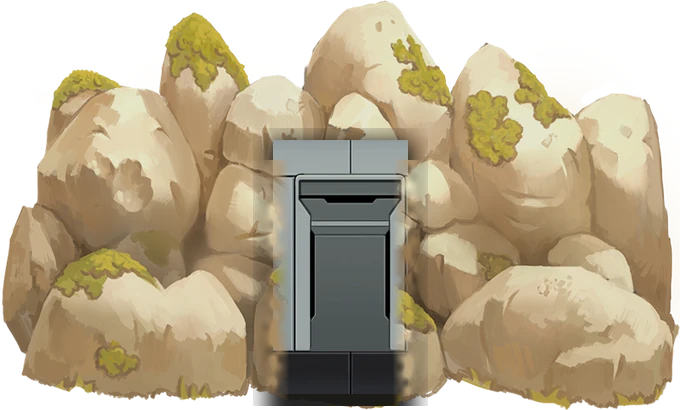
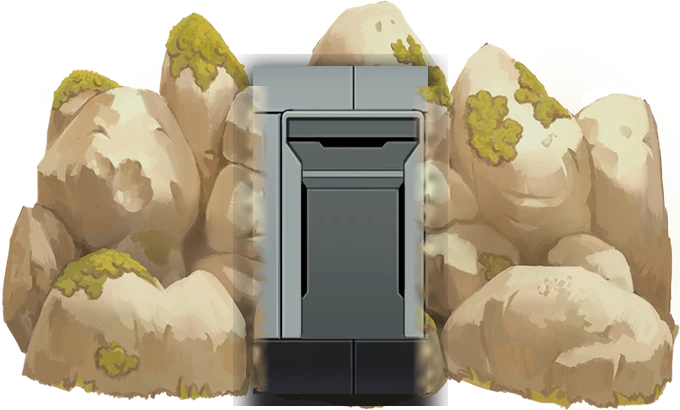
Ver 1.93: 로봇 동료의 리그 그림자가 마을 그림자와 두 겹이던 것 끄기, 1장 휴게실 그림자 작게, 1장 벼랑 강철문 크게, 1장 지휘실 큰 화면에 작전 지도, 7장 부두에 계류 말뚝, 5장 정비실 앞 겹친 상자 빼기

Changed region(s): [[0.3397, 0.1171, 0.6794, 0.9951]]

diff --git a/js/town.js b/js/town.js
@@ -87,6 +87,7 @@
   // 소품: art 그림, (x, y) 왼쪽 위 칸, w 칸 넓이, hh 그림 높이(칸). o: { h 칸 높이, block 0 이면 지나감, cells 막을 칸만 [dx,dy], lit [반지름, 색], ox 픽셀 밀기, flip }
   const D = (art, x, y, w, hh, o) => Object.assign({ t: 'deco', art, x, y, w, h: 1, hh, block: 1 }, o);
   const DEC = (art, x, y, w, a = 1) => ({ t: 'decal', art, x, y, w, a }); // 바닥에 납작하게 까는 무늬 (금·맨홀·물웅덩이)
+  const BOLLARD = (x, y) => ({ t: 'deco', kind: 'bollard', x, y, w: 1, h: 1, block: 1 }); // 부두 계류 말뚝 (직접 그림)
   const FIRE = (x, y) => ({ t: 'deco', kind: 'fire', x, y, w: 1, h: 1, block: 1, lit: [150, '255,170,90'] }); // 모닥불 (직접 그림)
   // 건물: to 들어갈 방, door 문 칸(x), label 은 방 이름으로 바뀐다
   const BLD = (to, art, x, y, w, h, door, o) => Object.assign({ t: 'building', x, y, w, h, art, label: '', door, to: [to, 6, 7] }, o);
@@ -220,7 +221,7 @@
         D('town/t5_core', 8, 12, 2, 1.6, { lit: [130, '150,220,255'] }), D('town/t5_core', 16, 12, 2, 1.6, { lit: [130, '150,220,255'] }),
         D('tiles/crate1', 1, 13, 1, 1.0), D('tiles/crate0', 24, 13, 1, 0.9), D('town/b_bench', 8, 16, 2, 0.9), D('town/b_bench', 16, 16, 2, 0.9),
         D('tiles/console', 6, 15, 2, 1.4, { lit: [90, '120,220,255'] }), D('tiles/tank0', 21, 15, 1, 1.9, { lit: [90, '90,255,170'] }), D('tiles/tank1', 3, 15, 1, 1.9, { lit: [90, '90,255,170'] }),
-        D('town/b_bench', 10, 9, 2, 0.9), D('town/b_bench', 14, 9, 2, 0.9), D('tiles/crate0', 22, 8, 1, 0.9), D('tiles/crate1', 23, 8, 1, 1.0), D('tiles/crate1', 1, 9, 1, 1.0),
+        D('town/b_bench', 10, 9, 2, 0.9), D('town/b_bench', 14, 9, 2, 0.9), D('tiles/crate1', 1, 9, 1, 1.0),
         DEC('town/d_grate', 5, 13, 1.5), DEC('town/d_grate', 18, 13, 1.5), DEC('town/d_grate', 10, 16, 1.5), DEC('town/d_crack', 19, 15, 2, 0.45),
         EXIT(12, 17), ...NPC([12, 11], [7, 10], [18, 13]), CON(14, 15),
       ],
@@ -269,6 +270,7 @@
       back: [{ art: 'town/t7_sea', by: 6.05, h: 6.4, repeat: 1, mirror: 1 }],
       objects: [
         BLD('cmd', 'town/t7_tower', 4, 7, 3, 3, 5, { plinth: 0 }), BLD('shop', 'town/t7_terminal', 14, 7, 8, 3, 18, { plinth: 0 }), BLD('cafe', 'town/t2_cafe', 19, 13, 5, 3, 21, { plinth: 0 }),
+        BOLLARD(1, 6), BOLLARD(8, 6), BOLLARD(13, 6), BOLLARD(23, 6), BOLLARD(24, 6),
         D('town/t3_radar', 23, 9, 1, 2.4), D('town/t0_mgnest', 10, 7, 3, 1.1), D('town/t3_mg', 11, 7, 1, 1.2, { block: 0 }),
         D('tiles/crate1', 3, 12, 1, 1.0), D('tiles/crate0', 4, 12, 1, 0.9), D('tiles/crate1', 3, 13, 1, 1.0), D('tiles/barrel', 15, 12, 1, 1.1), D('tiles/barrel', 16, 12, 1, 1.0),
         D('tiles/console', 8, 14, 2, 1.4, { lit: [90, '120,220,255'] }), D('tiles/gas', 1, 15, 2, 1.4), D('tiles/bags1', 15, 15, 2, 0.8), D('town/b_bench', 5, 15, 2, 0.9),
@@ -290,7 +292,7 @@
   // 그림의 뒷벽은 비율 그대로, 바닥 부분만 걸을 자리가 넉넉하도록(3칸 남짓) 세로로 늘린다.
   // fl: 그림(가로 1024 기준)에서 바닥이 시작하는 높이, blk: 바닥 위에 선 큰 기계 자리(가로 비율 구간, 지나갈 수 없음)
   const STAGE = {
-    r_train_0: { fl: 335, h: 512 }, r_dis2_0: { fl: 335, h: 512, blk: [[0.66, 1]] }, r_mm4_0: { fl: 395, h: 512, blk: [[0.06, 0.27], [0.43, 0.63], [0.88, 1]] },
+    r_train_0: { fl: 335, h: 512, screen: ['town/r_andr1_11', 0.345, 0.29, 0.695, 0.6] }, r_dis2_0: { fl: 335, h: 512, blk: [[0.66, 1]] }, r_mm4_0: { fl: 395, h: 512, blk: [[0.06, 0.27], [0.43, 0.63], [0.88, 1]] },
     r_rein1_0: { fl: 360, h: 512 }, r_dis1_0: { fl: 360, h: 512 }, r_rein2_0: { fl: 345, h: 512, blk: [[0.66, 1]] },
     r_parts_1: { fl: 370, h: 512, blk: [[0, 0.15], [0.27, 0.68]] }, r_rein3_0: { fl: 345, h: 512, blk: [[0.66, 1]] },
     r_cap: { fl: 425, h: 546, blk: [[0.56, 0.82]] }, r_mm0_0: { fl: 370, h: 512 },
@@ -315,7 +317,7 @@
     const free = (x) => { for (let d = 0; d < W; d++) for (const sg of [1, -1]) { const t = x + d * sg; if (t > 0 && t < W - 1 && !blocked(t) && Math.abs(t - mx) > 0 && used.every((u) => Math.abs(u - t) >= 2)) { used.push(t); return t; } } return free0(x); };
     const objects = [{ t: 'exit', x: mx, y: H - 1, w: 1, h: 1, to: 'back' }, ...STAGE_NPC[k].map(([id, fx, dy]) => ({ t: 'npc', id, x: free(Math.round(fx * W)), y: Math.min(H - 2, r0 + dy), dir: fx > 0.5 ? -1 : 1 }))];
     for (const [art, fx, dy, w, hh, lit] of props || []) { const x = Math.max(1, Math.round(fx * W)), y = Math.min(H - 2, r0 + dy); if (x === mx || objects.some((o) => o.t === 'npc' && o.x >= x && o.x < x + w && o.y === y)) continue; objects.push({ t: 'deco', art, x, y, w, h: 1, hh, block: 1, lit }); }
-    return { name, rows, indoor: 1, stage: { bg: bgPath, fl: st.fl, h: st.h, sc, top0, floorH, off, back: st.back }, bg: bgPath, tint, spawn: [mx, H - 2], objects };
+    return { name, rows, indoor: 1, stage: { bg: bgPath, fl: st.fl, h: st.h, sc, top0, floorH, off, back: st.back, screen: st.screen }, bg: bgPath, tint, spawn: [mx, H - 2], objects };
   }
   // 방 안 분위기 (장별): 어둠, 어둠 빛깔, 사령관 둘레 등불, 떠다니는 것
   const ROOMATMO = { works: { dark: 0.12, darkC: '30,18,8', torch: 1, fx: 'dust' }, camp: { dark: 0.14, darkC: '30,22,10', torch: 1, fx: 'dust' }, sewer: { dark: 0.5, darkC: '4,12,16', torch: 1, fx: 'drip', tint: '#b4c6cc' }, station: { dark: 0.25, darkC: '6,12,22', torch: 1, fx: 'dust' }, port: { dark: 0.1, darkC: '10,20,30', torch: 1, fx: 'dust' }, snow: { dark: 0.28, darkC: '40,22,8', torch: 1, fx: 'dust', tint: '#ffd6a8' } };
@@ -363,7 +365,7 @@
       if (e.sdAnim !== anim && c.has(anim)) { c.play(anim, null, true); e.sdAnim = anim; }
       c.update(dt);
       // 조종 손잡이(이름이 _CTRL 로 끝나는 뼈)에 붙은 빨간 조준 고리 그림은 끈다 (그 아래 몸은 그대로)
-      if (!e.mute) { const N = c.tpl.data.nodes; e.mute = c.tpl.rends.map((r, k) => (N[r.node] && /_CTRL$/.test(N[r.node].n) ? k : -1)).filter((k) => k >= 0); }
+      if (!e.mute) { const N = c.tpl.data.nodes; e.mute = c.tpl.rends.map((r, k) => (N[r.node] && /_CTRL$|shadow/i.test(N[r.node].n) ? k : -1)).filter((k) => k >= 0); } // 리그 자체 그림자도 끈다 (마을 그림자와 두 겹이 된다)
       for (const k of e.mute) c.rEn[k] = 0;
       const t = c.tpl, bw = Math.max(t.box.max.x - t.box.min.x, 0.01);
       const k = Math.min((SDF.NH - 26) / Math.min(Math.max(t.height, 0.01), 10.5) * (e.big ? 0.95 : 0.8), (SDF.CW - 10) / bw); // 창을 높이 든 동료(라비아타)도 몸 크기는 같게
@@ -573,6 +575,8 @@
       const k = im.width / 1024;
       g.drawImage(im, 0, st.fl * k, im.width, (st.h - st.fl) * k, 0, st.off + st.top0, mw, st.floorH);
       g.drawImage(im, 0, 0, im.width, st.fl * k + 2, 0, st.off, mw, st.top0 + 2 * st.sc); // 바닥과 2픽셀 겹쳐 이음선이 안 보이게
+      const sc = st.screen && img(st.screen[0]); // 벽 화면에 띄울 그림
+      if (sc && ok(sc)) { const [, x0, y0, x1, y1] = st.screen; g.globalAlpha = 0.9; g.drawImage(sc, x0 * mw, st.off + y0 * st.h * st.sc, (x1 - x0) * mw, (y1 - y0) * st.h * st.sc); g.globalAlpha = 1; } // 그림 좌표(비율)는 뒷벽과 같은 배율
     }
     const sg = g.createLinearGradient(0, mh - TILE * 1.2, 0, mh); sg.addColorStop(0, 'rgba(0,0,0,0)'); sg.addColorStop(1, 'rgba(0,0,0,.35)');
     g.fillStyle = sg; g.fillRect(0, mh - TILE * 1.2, mw, TILE * 1.2);
@@ -596,6 +600,7 @@
     const X = o.x * TILE + (o.ox || 0), Y = o.y * TILE, w = o.w * TILE, h = o.h * TILE;
     if (o.kind === 'lighthouse') return drawLighthouse(X + w / 2, Y + h);
     if (o.kind === 'fire') return drawFire(X + w / 2, Y + h - 10);
+    if (o.kind === 'bollard') { const cx = X + w / 2, by = Y + h - 8; ctx.fillStyle = 'rgba(0,0,0,.3)'; ctx.beginPath(); ctx.ellipse(cx, by + 2, 14, 5, 0, 0, 7); ctx.fill(); const gr = ctx.createLinearGradient(cx - 10, 0, cx + 10, 0); gr.addColorStop(0, '#3b4148'); gr.addColorStop(0.45, '#6c747d'); gr.addColorStop(1, '#262b31'); ctx.fillStyle = gr; ctx.fillRect(cx - 9, by - 22, 18, 22); ctx.beginPath(); ctx.ellipse(cx, by - 22, 13, 5, 0, 0, 7); ctx.fill(); ctx.fillStyle = '#c9a42a'; ctx.fillRect(cx - 9, by - 10, 18, 3); return; }
     const im = img(o.art); if (!ok(im)) return;
     const dh = TILE * (o.hh || 1.6), dw = (im.naturalWidth * dh) / im.naturalHeight;
     ctx.fillStyle = 'rgba(0,0,0,0.25)'; ctx.beginPath(); ctx.ellipse(X + w / 2, Y + h - 4, Math.max(dw, w) * 0.42, 8, 0, 0, 7); ctx.fill();
@@ -670,7 +675,7 @@
       let dw = w * 1.1, dh = (im.naturalHeight * dw) / im.naturalWidth;
       const maxH = (b.h + 2.6) * TILE; if (dh > maxH) { dw *= maxH / dh; dh = maxH; }
       const x = b.x * TILE + w / 2 - dw / 2;
-      ctx.fillStyle = 'rgba(0,0,0,0.26)'; ctx.beginPath(); ctx.ellipse(x + dw / 2, base - 4, dw * 0.5, 12, 0, 0, 7); ctx.fill();
+      ctx.fillStyle = 'rgba(0,0,0,0.2)'; ctx.beginPath(); ctx.ellipse(x + dw / 2, base - 4, dw * 0.44, 9, 0, 0, 7); ctx.fill();
       if (b.plinth !== 0) { // 바닥 받침 (1장 기지 건물)
         ctx.fillStyle = '#a89f8c'; ctx.fillRect(x - 8, base - 8, dw + 16, 14);
         ctx.fillStyle = '#cfc6b4'; ctx.fillRect(x - 8, base - 12, dw + 16, 10);

diff --git a/js/game.js b/js/game.js
@@ -2421,7 +2421,7 @@
   }
   function hideScreen() { keepSnap(); $('screen').innerHTML = ''; }
   // 타이틀: 원작과 같은 구성 (폐허를 올려다보는 배경 + 빛 + LAST ORIGIN 로고 + 화면 터치 + 타이틀 콜)
-  const GAME_VERSION = '1.92';
+  const GAME_VERSION = '1.93';
   const TITLE_CALLS = ['Title-2', 'Title-4', 'Title-6', 'Title-8', 'Voice_3P_ConstantiaS2_Title-4', 'Voice_3P_ConstantiaS2_Title-8', 'Voice_BR_PA00EL_Title-4', 'Voice_BR_PA00EL_Title-7', 'Voice_PECS_LRL_N_Title-1', 'Voice_PECS_LRL_N_Title-4', 'Voice_PECS_PuppHead_Title-3', 'Voice_PECS_PuppHead_Title-5'];
   function title() {
     leaveMap();

diff --git a/tools/build_town.py b/tools/build_town.py
@@ -197,7 +197,7 @@ def composite():
     W, H = rock.size
     out = Image.new('RGBA', (W, H), (0, 0, 0, 0))
     out.alpha_composite(rock)
-    dh = int(H * 0.62); dw = int(door.width * dh / door.height)
+    dh = int(H * 0.8); dw = int(door.width * dh / door.height)
     door = door.resize((dw, dh), Image.LANCZOS)
     # 문 둘레를 바위 속 그늘로 (파낸 자리)
     hole = Image.new('RGBA', (dw + 40, dh + 24), (0, 0, 0, 0))
